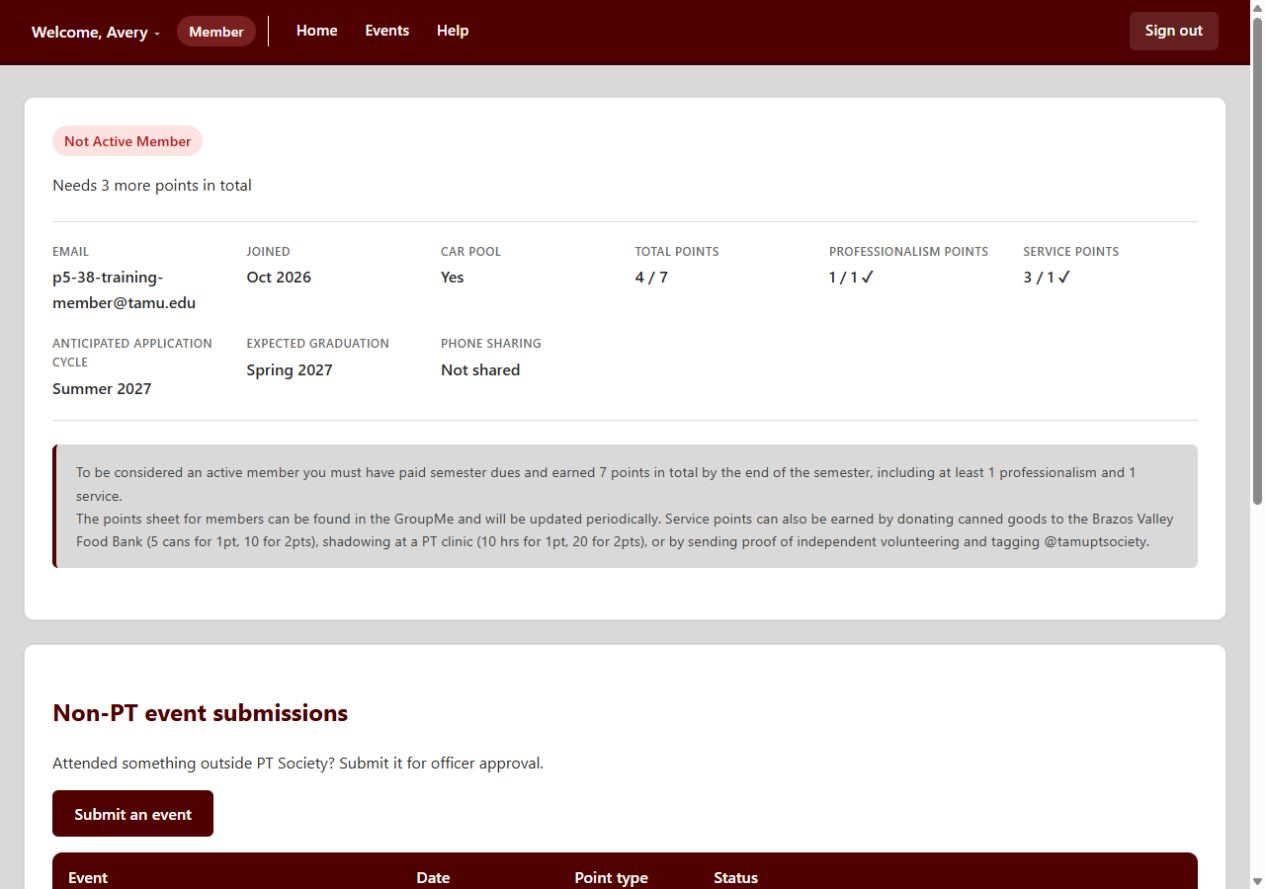
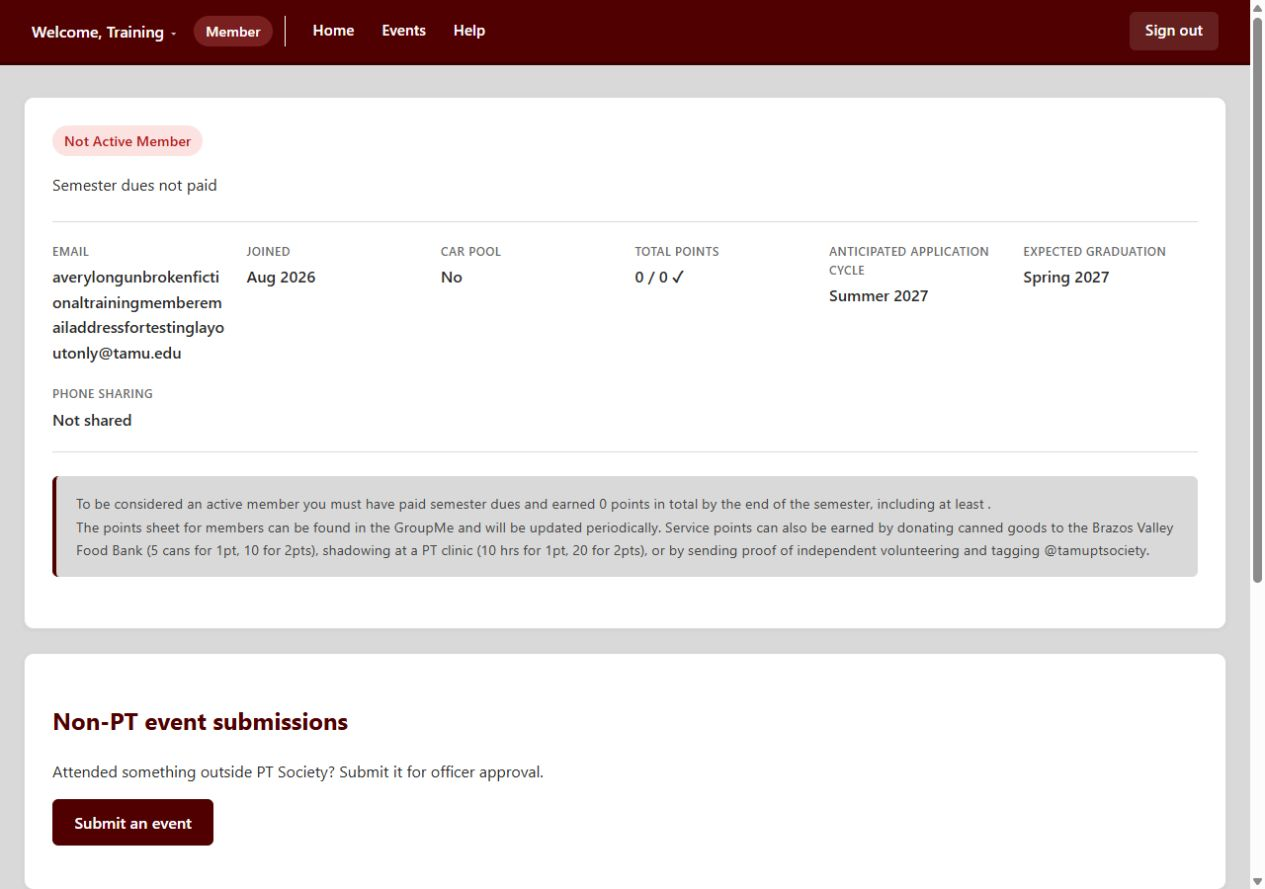
P5-45 Keep long member emails within their profile statistics

diff --git a/app/assets/stylesheets/application.css b/app/assets/stylesheets/application.css
@@ -463,7 +463,7 @@ textarea { resize: vertical; }
 
 .profile-stats {
   display: grid;
-  grid-template-columns: repeat(auto-fit, minmax(150px, 1fr));
+  grid-template-columns: repeat(auto-fit, minmax(min(150px, 100%), 1fr));
   gap: 1.25rem;
   margin: 1.5rem 0;
   padding: 1.25rem 0;
@@ -475,6 +475,7 @@ textarea { resize: vertical; }
   display: flex;
   flex-direction: column;
   gap: 0.2rem;
+  min-width: 0;
 }
 
 .stat-label {
@@ -489,6 +490,7 @@ textarea { resize: vertical; }
   font-size: 1rem;
   font-weight: 600;
   color: var(--text);
+  overflow-wrap: anywhere;
 }
 
 .info-box {
@@ -679,7 +681,7 @@ button:disabled, input[type="submit"]:disabled { opacity: 0.6; cursor: wait; }
   .page-header { flex-wrap: wrap; gap: 0.75rem; }
   .event-detail-header { flex-wrap: wrap; gap: 1rem; }
   .event-card { padding: 0.9rem 1rem; gap: 0.9rem; }
-  .profile-stats { grid-template-columns: repeat(auto-fit, minmax(130px, 1fr)); }
+  .profile-stats { grid-template-columns: repeat(auto-fit, minmax(min(130px, 100%), 1fr)); }
 
   .event-actions .btn, .btn-rsvp, .event-primary-action button {
     width: 100%;
